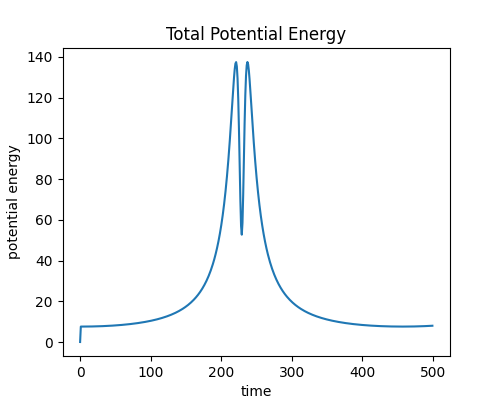
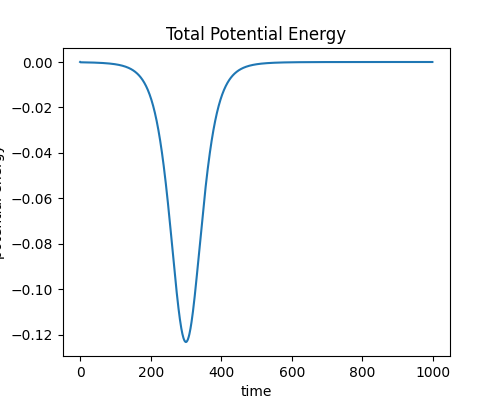
2 particle scenario

diff --git a/main.py b/main.py
@@ -12,9 +12,9 @@ sigma = 3.405e-10  # [m]   Lennard-Jones Potential well depth of Argon
 Ag_m = 6.6335209e-26  # [kg]  Atomic mass of Argon
 
 # Simulation parameters:
-N_particles = 2**3 #2  # [-]   Amount of particles
-h = 0.01  # [-]   Time step
-N_time = 500  # [-]   Number of time steps
+N_particles = 2  # [-]   Amount of particles
+h = 0.001  # [-]   Time step
+N_time = 1000  # [-]   Number of time steps
 box_L = 30  # [-]   *sigma Length of box
 
 potential_energies = np.zeros(N_time)
@@ -26,76 +26,6 @@ else:
     test_state = 0
 
 
-def lj_force(r):
-    """ Given the unitless radius between two particles,
-    this returns the unitless Lennard Jones Force. """
-    force = -4 * (-12 * (r ** -14) + 6 * (r ** -8))
-    return force
-
-
-def potential_energy(r):
-    return -4 * (r ** -12 - r ** -6)
-
-
-def direction(r_abs, x1, x2, y1, y2, z1, z2):
-    """ Given the absolute relative distance and x,y,z coordinates
-    of two particles, this returns the unit directional vector. """
-    r_x = (x1 - x2) / r_abs
-    r_y = (y1 - y2) / r_abs
-    r_z = (z1 - z2) / r_abs
-    return r_x, r_y, r_z
-
-
-def mic(x1, x2, y1, y2, z1, z2):
-    """ Given the x,y,z coordinates of two particles, the minimum image
-    convention is applied, returning the closest x,y,z coordinates."""
-    x_close, y_close, z_close = x2, y2, z2
-
-    # if x2 - x1 > box_L / 2:
-    #     x_close = x2 - box_L
-    # elif x2 - x1 <= -box_L / 2:
-    #     x_close = x2 + box_L
-    # if y2 - y1 > box_L / 2:
-    #     y_close = y2 - box_L
-    # elif y2 - y1 <= -box_L / 2:
-    #     y_close = y2 + box_L
-    # if z2 - z1 > box_L / 2:
-    #     z_close = z2 - box_L
-    # elif z2 - z1 <= -box_L / 2:
-    #     z_close = z2 + box_L
-
-    x_close = x1+((x2 - x1 + box_L / 2) % box_L - box_L / 2)
-    y_close = y1+((y2 - y1 + box_L / 2) % box_L - box_L / 2)
-    z_close = z1+((z2 - z1 + box_L / 2) % box_L - box_L / 2)
-    return x_close, y_close, z_close
-
-
-def distance(x1, x2, y1, y2, z1, z2):
-    """ Given the x,y,z coordinates of two particles, this returns the
-    absolute distance to the closest partner on the infinite canvas."""
-    x2, y2, z2 = mic(x1, x2, y1, y2, z1, z2)
-    r_abs = np.sqrt((x2 - x1) ** 2 + (y2 - y1) ** 2 + (z2 - z1) ** 2)
-    return r_abs
-
-
-def periodicity_warp(x_new, y_new, z_new):
-    """ Given the updated x,y,z coordinates of a particle, this applies
-    periodic boundary conditions, returning the new warped coordinates."""
-    if x_new >= box_L:
-        x_new = x_new % box_L
-    if x_new < 0:
-        x_new = box_L - (abs(x_new) % box_L)
-    if y_new >= box_L:
-        y_new = y_new % box_L
-    if y_new < 0:
-        y_new = box_L - (abs(y_new) % box_L)
-    if z_new >= box_L:
-        z_new = z_new % box_L
-    if z_new < 0:
-        z_new = box_L - (abs(z_new) % box_L)
-    return x_new, y_new, z_new
-
-
 def initialize_particles():
     """ This function returns the initial particle state at t=0. The particle
     state contains for each timestep 6 columns (x,y,z,v_x,v_y,v_z) and N rows. """
@@ -103,7 +33,7 @@ def initialize_particles():
     print("shape of matrix:", particles.shape, "= (t, N, [x y z vx vy vz])")
 
     if test_state == 0:
-        grid_left_boundary = box_L / 2 - 1
+        grid_left_boundary = box_L / 2 - 0.8
         grid_right_boundary = box_L / 2 + 1
         box_grid = np.linspace(grid_left_boundary, grid_right_boundary, num=round(N_particles ** (1 / 3)))
         x_grid, y_grid, z_grid = np.meshgrid(box_grid, box_grid, box_grid)
@@ -125,11 +55,81 @@ def initialize_particles():
         return particles
 
     if test_state == 2:
-        particles[0, 0, 0], particles[0, 0, 1] = [box_L / 2 + 1, box_L / 2]  # + box_L / 600]
-        particles[0, 1, 0], particles[0, 1, 1] = [box_L / 2 - 2, box_L / 2]  # - box_L / 600]
-        particles[0, 0, 3], particles[0, 0, 4] = [-20, 0]
-        particles[0, 1, 3], particles[0, 1, 4] = [20, 0]
+        v_init_two_particles = 10
+        particles[0, 0, 0], particles[0, 0, 1] = [box_L / 2 + 3, box_L / 2 + 1]  # + box_L / 600]
+        particles[0, 1, 0], particles[0, 1, 1] = [box_L / 2 - 3, box_L / 2 - 1]  # - box_L / 600]
+        particles[0, 0, 3], particles[0, 0, 4] = [-v_init_two_particles, 0]
+        particles[0, 1, 3], particles[0, 1, 4] = [v_init_two_particles, 0]
         return particles
+
+
+def lj_force(r):
+    """ Given the unitless radius between two particles,
+    this returns the unitless Lennard Jones Force. """
+    force = -4 * (-12 * (r ** -14) + 6 * (r ** -8))
+    return force
+
+
+def potential_energy(r):
+    potential = 4 * (r ** -12 - r ** -6)
+    return potential
+
+
+def mic(x1, x2, y1, y2, z1, z2):
+    """ Given the x,y,z coordinates of two particles, the minimum image
+    convention is applied, returning the closest x,y,z coordinates."""
+    # x_close, y_close, z_close = x2, y2, z2
+    # if x2 - x1 > box_L / 2:
+    #     x_close = x2 - box_L
+    # elif x2 - x1 <= -box_L / 2:
+    #     x_close = x2 + box_L
+    # if y2 - y1 > box_L / 2:
+    #     y_close = y2 - box_L
+    # elif y2 - y1 <= -box_L / 2:
+    #     y_close = y2 + box_L
+    # if z2 - z1 > box_L / 2:
+    #     z_close = z2 - box_L
+    # elif z2 - z1 <= -box_L / 2:
+    #     z_close = z2 + box_L
+    x_close = x1 + ((x2 - x1 + box_L / 2) % box_L - box_L / 2)
+    y_close = y1 + ((y2 - y1 + box_L / 2) % box_L - box_L / 2)
+    z_close = z1 + ((z2 - z1 + box_L / 2) % box_L - box_L / 2)
+    return x_close, y_close, z_close
+
+
+def abs_distance(x1, x2, y1, y2, z1, z2):
+    """ Given the x,y,z coordinates of two particles, this returns the
+    absolute distance to the closest partner on the infinite canvas."""
+    x2, y2, z2 = mic(x1, x2, y1, y2, z1, z2)
+    r_abs = np.sqrt((x2 - x1) ** 2 + (y2 - y1) ** 2 + (z2 - z1) ** 2)
+    return r_abs
+
+
+def unit_direction(r_abs, x1, x2, y1, y2, z1, z2):
+    """ Given the absolute relative distance and x,y,z coordinates
+    of two particles, this returns the unit directional vector. """
+    r_x = (x1 - x2) / r_abs
+    r_y = (y1 - y2) / r_abs
+    r_z = (z1 - z2) / r_abs
+    return r_x, r_y, r_z
+
+
+def periodicity_warp(x_new, y_new, z_new):
+    """ Given the updated x,y,z coordinates of a particle, this applies
+    periodic boundary conditions, returning the new warped coordinates."""
+    if x_new >= box_L:
+        x_new = x_new % box_L
+    if x_new < 0:
+        x_new = box_L - (abs(x_new) % box_L)
+    if y_new >= box_L:
+        y_new = y_new % box_L
+    if y_new < 0:
+        y_new = box_L - (abs(y_new) % box_L)
+    if z_new >= box_L:
+        z_new = z_new % box_L
+    if z_new < 0:
+        z_new = box_L - (abs(z_new) % box_L)
+    return x_new, y_new, z_new
 
 
 def interaction_force(i, j, particles):
@@ -138,12 +138,12 @@ def interaction_force(i, j, particles):
     x_old, y_old, z_old, vx_old, vy_old, vz_old = particles[i - 1][j]
     f_x, f_y, f_z = [0, 0, 0]
     for k in range(N_particles):
-        radius = distance(x_old, particles[i - 1][k][0], y_old, particles[i - 1][k][1], z_old, particles[i - 1][k][2])
+        radius = abs_distance(x_old, particles[i - 1][k][0], y_old, particles[i - 1][k][1], z_old,
+                              particles[i - 1][k][2])
         if (k != j) and (radius != 0):
-            potential_energies[i] += potential_energy(radius) / 2
             force = lj_force(radius)
-            r_unit = direction(radius, x_old, particles[i - 1][k][0], y_old, particles[i - 1][k][1], z_old,
-                               particles[i - 1][k][2])
+            r_unit = unit_direction(radius, x_old, particles[i - 1][k][0], y_old, particles[i - 1][k][1], z_old,
+                                    particles[i - 1][k][2])
             f_x += force * r_unit[0]
             f_y += force * r_unit[1]
             f_z += force * r_unit[2]
@@ -167,13 +167,15 @@ def update_velocity(i, j, particles, f_x_old, f_y_old, f_z_old):
     this returns the new x,y,z velocities based on Newtonian dynamics and the Verlet algorithm."""
     x_old, y_old, z_old, vx_old, vy_old, vz_old = particles[i - 1][j]
     x_new, y_new, z_new, vx_new, vy_new, vz_new = particles[i][j]
-    vx_new, vy_new, vz_new = vx_old, vy_old, vz_old
     f_x, f_y, f_z = [0, 0, 0]
+
     for k in range(N_particles):
-        radius = distance(x_new, particles[i][k][0], y_new, particles[i][k][1], z_new, particles[i][k][2])
+        radius = abs_distance(x_new, particles[i][k][0], y_new, particles[i][k][1], z_new, particles[i][k][2])
         if (k != j) and (radius != 0):
+            potential_energies[i] += potential_energy(radius)
             force = lj_force(radius)
-            r_unit = direction(radius, x_new, particles[i][k][0], y_new, particles[i][k][1], z_new, particles[i][k][2])
+            r_unit = unit_direction(radius, x_new, particles[i][k][0], y_new, particles[i][k][1], z_new,
+                                    particles[i][k][2])
             f_x += force * r_unit[0]
             f_y += force * r_unit[1]
             f_z += force * r_unit[2]
@@ -207,21 +209,20 @@ def kinetic_energy(velocities):
 
 def plot_kinetic_energy(particles):
     """ Given the particle state, this plots the kinetic energy. """
-    total_kinetic_energy_list = []
-    for particles_t in particles:
-        total_kinetic_energy = 0
-        for particle_t in particles_t:
-            # print(particle_t)
-            total_kinetic_energy += kinetic_energy(particle_t[3:])
-        total_kinetic_energy_list.append(total_kinetic_energy)
+    total_kinetic_energies = np.zeros(N_time)
+    for i in range(N_time):
+        energy_kin = 0
+        for j in range(N_particles):
+            energy_kin += kinetic_energy(particles[i, j, 3:])
+        total_kinetic_energies[i] = energy_kin
 
     plt.figure(figsize=(5, 4))
     plt.title("Total Kinetic Energy")
-    plt.plot(np.arange(0, N_time), total_kinetic_energy_list)
+    plt.plot(np.arange(0, N_time), total_kinetic_energies)
     plt.xlabel("time point i")
     plt.savefig("kinetic_energies.png")
     plt.close()
-    return total_kinetic_energy_list
+    return total_kinetic_energies
 
 
 def plot_potential_energy():
@@ -235,6 +236,52 @@ def plot_potential_energy():
     return None
 
 
+def plot_total_energy(particles):
+    plt.figure(figsize=(5, 4))
+    plt.title("Total Potential Energy")
+    kin_en = plot_kinetic_energy(particles)
+    plt.plot(np.arange(0, N_time), potential_energies, label="potential")
+    plt.plot(np.arange(0, N_time), kin_en - np.average(kin_en),
+             label="kinetic - $E_{kin, avg}$")
+    # plt.plot(np.arange(0, N_time), potential_energies+total_kinetic_energy_list, label="total")
+    plt.xlabel("time")
+    plt.ylabel("energy")
+    plt.legend()
+    plt.savefig("total_energies.png")
+    plt.close()
+    return None
+
+
+def plot_z_slice(particles):
+    plt.figure()
+    plt.title("z = 0 projection")
+    plt.plot(particles[:, 0, 0], particles[:, 0, 1], "o-", markersize=1, c="b")
+    plt.plot(particles[:, 1, 0], particles[:, 1, 1], "o-", markersize=1, c="r")
+    plt.plot(particles[0, 0, 0], particles[0, 0, 1], "s", markersize=10, c="b")
+    plt.plot(particles[0, 1, 0], particles[0, 1, 1], "s", markersize=10, c="r")
+    plt.xlim(0, box_L)
+    plt.ylim(0, box_L)
+    plt.show()
+
+
+def generate_gif(particles):
+    fig = plt.figure(figsize=(3, 3), dpi=100)
+    ax = plt.axes(xlim=(0, box_L), ylim=(0, box_L), zlim=(0, box_L), projection='3d')
+    ax.view_init(20, 30)
+    scatter = ax.scatter([], [], [], s=5, marker='o')
+    iteration = ax.text(box_L, 0, box_L, "i=0", color="red")
+
+    def update(i):
+        scatter._offsets3d = (particles[i, :, 0], particles[i, :, 1], particles[i, :, 2])
+        iteration.set_text("i=" + str(i))
+        return scatter, iteration,
+
+    anim = animation.FuncAnimation(fig, update, frames=N_time, interval=1)
+    anim.save('MD_simulation.gif', fps=80)
+    plt.show()
+    # plt.close()
+
+
 def main():
     """ Main function to be run for this code. """
     particles = initialize_particles()
@@ -245,22 +292,13 @@ def main():
 
 
 particles_simulation = main()
-fig = plt.figure(figsize=(3, 3), dpi=100)
-ax = plt.axes(xlim=(0, box_L), ylim=(0, box_L), zlim=(0, box_L), projection='3d')
-ax.view_init(20, 30)
-scatter = ax.scatter([], [], [], s=5, marker='o')
-iteration = ax.text(box_L, 0, box_L, "i=0", color="red")
 
-
-def update(i):
-    scatter._offsets3d = (particles_simulation[i, :, 0], particles_simulation[i, :, 1], particles_simulation[i, :, 2])
-    iteration.set_text("i=" + str(i))
-    return scatter, iteration,
-
-
-anim = animation.FuncAnimation(fig, update, frames=N_time, interval=2)
-anim.save('MD_simulation.gif', fps=60)
-plt.show()
-
-plot_kinetic_energy(particles_simulation)
 plot_potential_energy()
+plot_kinetic_energy(particles_simulation)
+plot_total_energy(particles_simulation)
+if N_particles == 2:
+    plot_z_slice(particles_simulation)
+else:
+    generate_gif(particles_simulation)
+
+# generate_gif(particles_simulation)
